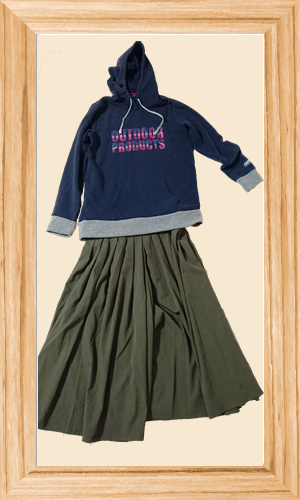
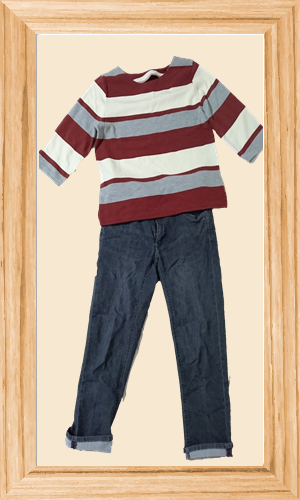
ベータ版(?)

diff --git a/www/index.html b/www/index.html
@@ -14,81 +14,92 @@
   
    
   <script>
-    function kode(num) {
-        var area1;
-      switch (num) {
-        case 0:
-          area1 = "kasa.png";
-          break;
-        case 1:
-          area1 = "koikun.png";
-          break;
-        case 2:
-          area1 = "images/kasa.png";
-          break;
-        case 3:
-          area1 = "images/kasa.png";
-          break;
-        case 4:
-          area1 = "images/kasa.png";
-          break;
-        default:
-          area1 = "images/koikun.png";
-          break;
-      }
-      return area1;
-    }
-  </script>
-  
-  <script>
+   
       function start () {
-          var num=1;
-          var image_name;
-        //var num=0;
-        //var area1;
+          var num=Math.floor(Math.random() * 5)+1;
+          var date=new Date();
+          var mh =date.getMonth();
+        /*if(tp >25){
+           num=num+5;
+        }else if(tp<15){
+            num=num+10;
+        }*/
+        if(mh>=10 || mh<=2)
+           num=num+10;
+        else if(mh>7)
+           num=num+5;
         switch (num) {
-        case 0:
-          area1 = "kasa.png";
-          break;
         case 1:
-          document.getElementById("print").src = "images/kasa.png" ;
+          document.getElementById("print").src = "images/code_1.PNG" ;
           break;
         case 2:
-          area1 = "images/kasa.png";
+          document.getElementById("print").src = "images/code_2.PNG" ;
           break;
         case 3:
-          area1 = "images/kasa.png";
+          document.getElementById("print").src = "images/code_3.PNG" ;
           break;
         case 4:
-          area1 = "images/kasa.png";
+          document.getElementById("print").src = "images/code_4.PNG" ;
+          break;
+        case 5:
+          document.getElementById("print").src = "images/code_5.PNG" ;
+          break;
+        case 6:
+          document.getElementById("print").src = "images/code_6.PNG" ;
+          break;
+        case 7:
+          document.getElementById("print").src = "images/code_7.PNG" ;
+          break;
+        case 8:
+          document.getElementById("print").src = "images/code_8.PNG" ;
+          break;
+        case 9:
+          document.getElementById("print").src = "images/code_9.PNG" ;
+          break;
+        case 10:
+          document.getElementById("print").src = "images/code_10.PNG" ;
+          break;
+        case 11:
+          document.getElementById("print").src = "images/code_11.PNG" ;
+          break;
+        case 12:
+          document.getElementById("print").src = "images/code_12.PNG" ;
+          break;
+        case 13:
+          document.getElementById("print").src = "images/code_13.PNG" ;
+          break;
+        case 14:
+          document.getElementById("print").src = "images/code_14.PNG" ;
+          break;
+        case 15:
+          document.getElementById("print").src = "images/code_15.PNG" ;
           break;
         default:
-          area1 = "images/koikun.png";
           break;
       }
       
-     /* if (num == 1) {
-                document.getElementById("print").src = "images/kasa.png" ;
-            } else if  (dice == 0) {
-                document.getElementById("print").src = "images/kasa.png" ;
-            }
-          
-       */     
+            
           document.getElementById("start_wh").style["display"] = "none";
           document.getElementById("select_text").style["display"] = "none";
           document.getElementById("city_select").style["display"] = "none";
+          document.getElementById("title").style["display"] = "none";
           //document.getElementById("print").src = "images/kasa.png" ;
           document.getElementById("print").style["display"] = "block";          
       }
     </script>
     <style>
         body {
-            background-image: url("images/mokume.jpg");
+            background-image: url("images/mokume_1.jpg");
             background-size: cover;
             background-repeat: no-repeat;
             margin: 0;
             padding: 0;
             text-align: center;
+        }
+        #title {
+            position: absolute;
+            top: 30px;
+            width: 100%;
         }
         #start_wh {
             position: absolute;
@@ -97,12 +108,12 @@
         }
         #city_select {
             position: absolute;
-            bottom: 260px;
+            bottom: 300px;
             width: 100%;
         }
         #select_text {
             position: absolute;
-            bottom: 290px;
+            bottom: 350px;
             width: 100%;
         }
         #icon {
@@ -111,9 +122,9 @@
         }
         #print {
             position: absolute;
-            bottom: 290px;
-            width: 50px;
-            height: 50px;
+            bottom: 90px;
+            left:  50px;
+            width: 70%;
             
         }
     </style>
@@ -158,6 +169,7 @@
         left: 200px;
     }
     .temp_max{
+        style.color="white";
         font-size: 20px;
         position: absolute;
         top: 80px;
@@ -207,9 +219,10 @@ angular.module('myApp', [])
     <div id=start_wh>
       <img src="images/start.png" alt="START" ng-click="onclick()" onclick="start()">
     </div>
+    <div id="title">
+      <img src="images/title.png" alt="title" >
     <div>
     <img id="print" style="display:none">
-     
      </div>
 </body>
 </html>
